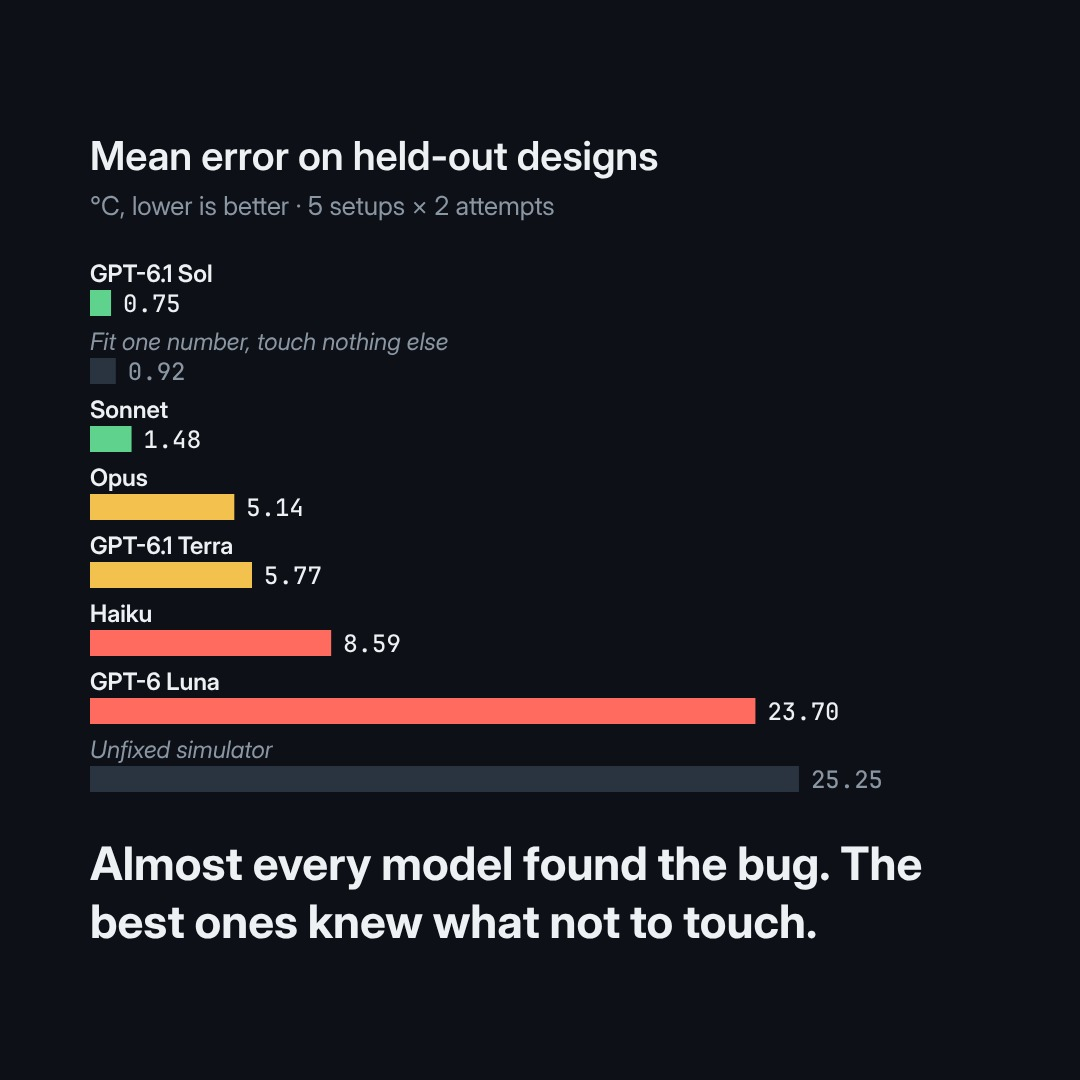
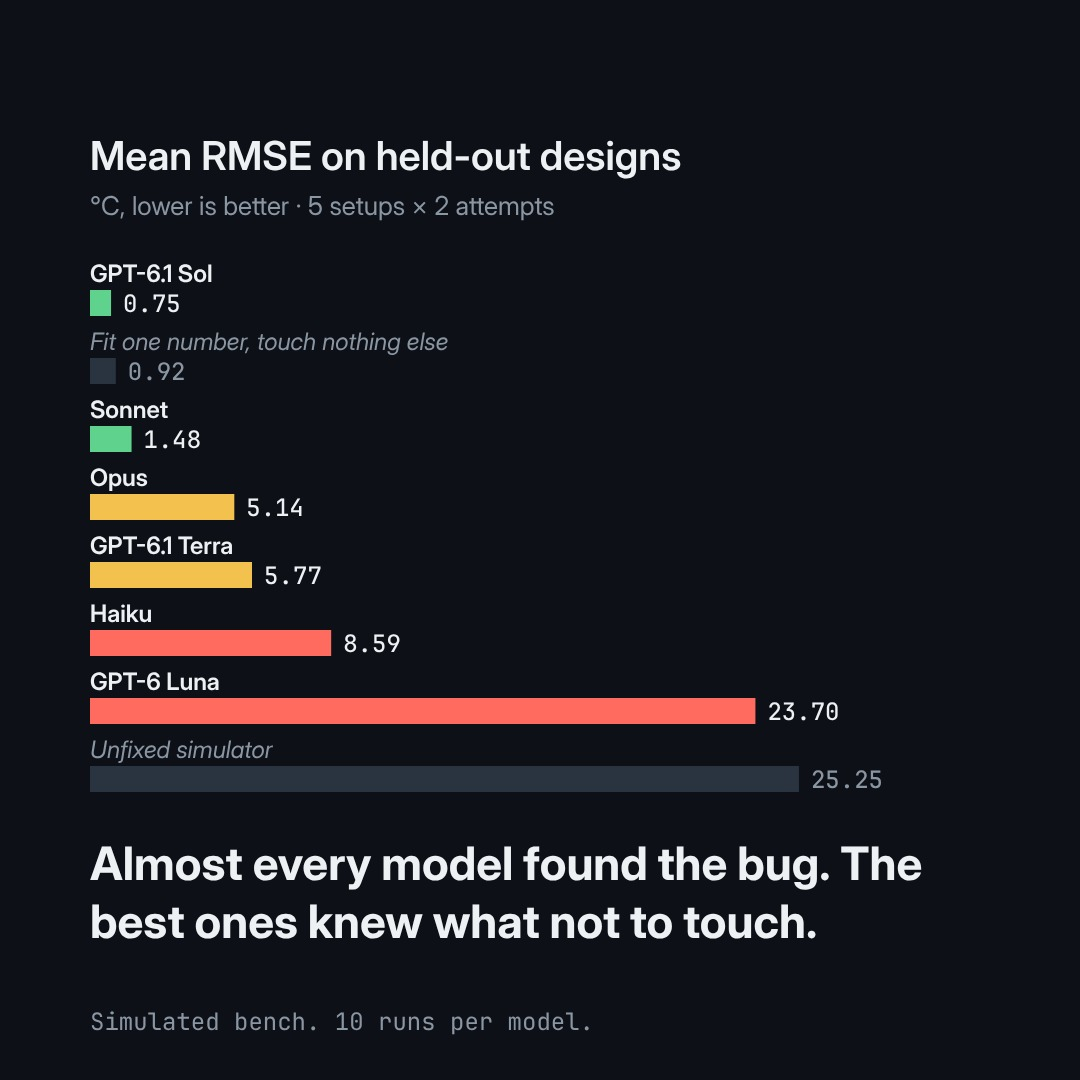
State that measurements are simulated and the by-design caveat
Measurements come from the reference model plus noise, and the reference
shares the simulator's correlations, so leaving non-leak physics alone was
correct by construction. Add model versions and harness note to the site.

Claude-Session: https://claude.ai/code/session_01GKJESjBRS8AiD19GGSstPH

diff --git a/docs/index.html b/docs/index.html
@@ -52,7 +52,7 @@ details summary:focus-visible{outline:2px solid var(--dot);outline-offset:2px}
   <header>
     <div class="eyebrow">Heat sink simulator-fix eval · round 2 · 60 runs</div>
     <h1>The best models knew what not to touch</h1>
-    <p class="lede">Each model got a heat sink simulator with one missing piece of physics (air leaking around the fins through the gap above them) and 12 bench measurements. Its job: fix the simulator so it predicts 30 held-out designs, including fin counts and fan speeds it never saw. Same 5 setups and 2 attempts for every model. The leak strength was different in each setup, so a textbook default doesn't work.</p>
+    <p class="lede">Each model got a heat sink simulator with one missing piece of physics (air leaking around the fins through the gap above them) and 12 simulated bench measurements (generated from the reference model plus noise; there is no physical rig). Its job: fix the simulator so it predicts 30 held-out designs, including fin counts and fan speeds it never saw. Same 5 setups and 2 attempts for every model. The leak strength was different in each setup, so a textbook default value fails on 4 of the 5.</p>
   </header>
 
   <section>
@@ -75,7 +75,8 @@ details summary:focus-visible{outline:2px solid var(--dot);outline-offset:2px}
     </details>
   </section>
   <p class="note"><a href="playground/" style="color:var(--dot);font-weight:600">Try the physics yourself in the Heat Sink Playground</a>: drag the fin count and watch the airflow choke, or play "Beat the AI" against the same models.</p>
-  <p class="note">The reference is an independent closed-form model (Teertstra channel Nusselt number, Muzychka–Yovanovich friction, a fan curve and a parallel bypass path), so these are textbook correlations, not CFD. Hidden leak coefficients were 0.6, 2.5, 1.0, 3.5 and 1.6. No run read the hidden answers.</p>
+  <p class="note">The reference is written independently but uses the same textbook correlations as the simulator (Teertstra channel Nusselt number, Muzychka–Yovanovich friction, a fan curve), plus a parallel bypass path for the leak. So everything except the leak was correct by design, and the models weren't told that; on real hardware, refitting a fan curve can be sensible. Not CFD. Hidden leak coefficients were 0.6, 2.5, 1.0, 3.5 and 1.6. No run read the hidden answers.</p>
+  <p class="note">Models: Claude Sonnet 5.5, Opus 5.5 and Haiku 5.5 via Claude Code at medium effort; GPT-6.1 Sol, GPT-6.1 Terra and GPT-6 Luna via Codex (effort not recorded). This compares model plus harness.</p>
 </div>
 <div class="tip" id="tip" hidden></div>
 

diff --git a/README.md b/README.md
@@ -2,7 +2,7 @@
 
 Can a frontier model fix a broken physics simulator from a handful of measurements, and only the part that's broken?
 
-Each model gets a plate-fin heat sink simulator with one missing mechanism (air leaking over the fins through the gap above them), a README, and 12 bench measurements of chip temperature and fan airflow. It has to write `predict.py`, which is scored on 30 held-out designs per setup, including fin counts and fan speeds outside the training data.
+Each model gets a plate-fin heat sink simulator with one missing mechanism (air leaking over the fins through the gap above them), a README, and 12 simulated bench measurements of chip temperature and fan airflow. There is no physical rig: the measurements come from the reference model (`eval/truth2.py`) plus noise. It has to write `predict.py`, which is scored on 30 held-out designs per setup, including fin counts and fan speeds outside the training data.
 
 **Live:** [results](https://shayansanjideh.github.io/heatsink-simfix/) · [Heat Sink Playground](https://shayansanjideh.github.io/heatsink-simfix/playground/)
 
@@ -25,7 +25,7 @@ Models: Claude Sonnet 5.5, Opus 5.5 and Haiku 5.5 through Claude Code (`claude -
 | *Baseline: curve fit on the gap* | 11.49 | 13.91 |
 | *Baseline: unfixed simulator* | 25.25 | 19.52 |
 
-Almost every model found the leak. A code check finds a real bypass path in 10 of 10 runs for every model except Luna, which has one in 4 of 10. What separated them was leaving the rest alone. We compared each run's predictions with the true physics, changing only the leak value. Sol and Sonnet matched it to within 0.25 °C in 19 of 20 runs. Haiku matched in 5 of 10, Opus and Luna in 2 of 10 each, and Terra in 0 of 10. The other runs changed parts that weren't broken, such as loss formulas, the fan curve in 3 Opus runs, or stacked correction factors. Some of those edits still matched the 12 training points; Opus's and Terra's mostly did, while Haiku's and Luna's worst runs already missed their own training data. Errors grow on dense fins (N > 30) for every model, including correct ones, because a small leak error gets amplified there.
+Almost every model found the leak. A code check finds a real bypass path in 10 of 10 runs for every model except Luna, which has one in 4 of 10. What separated them was leaving the rest alone. We compared each run's predictions with the true physics, changing only the leak value. Sol and Sonnet matched it to within 0.25 °C in 19 of 20 runs (also 19 of 20 at a looser 1 °C, against 8 of 20 for Opus and Terra). Haiku matched in 5 of 10, Opus and Luna in 2 of 10 each, and Terra in 0 of 10. The other runs changed parts that weren't broken, such as loss formulas, the fan curve in 3 Opus runs, or stacked correction factors. Some of those edits still matched the 12 training points; Opus's and Terra's mostly did, while Haiku's and Luna's worst runs already missed their own training data. Errors grow on dense fins (N > 30) for every model, including correct ones, because a small leak error gets amplified there.
 
 Sol's worst run scored 1.7 °C and Sonnet's 3.0. Every other model had at least 3 runs above 5 °C.
 
@@ -33,9 +33,10 @@ Full table, including errors by fan speed and fin count: [`results/report2.txt`]
 
 ## Caveats
 
+- **Leaving the rest alone was right by design:** the reference is written independently but uses the same correlations as the simulator, plus the leak. Everything except the leak was correct by construction, and the models weren't told that. On real hardware, refitting a fan curve to measured airflow can be sensible engineering, so this tests one narrow skill, not engineering judgment in general.
 - **The reference is textbook correlations, not CFD:** Teertstra channel Nusselt number, Muzychka–Yovanovich friction, a linear fan curve, fin efficiency and Song–Lee–Au spreading resistance, plus a parallel bypass path at equal pressure drop.
 - **Small sample:** 10 runs per model. Sol and Sonnet lead on means and on worst-case runs, but medians don't clearly separate them from the rest. Opus, Terra and Haiku can't be separated.
-- **Crashes:** one Terra run (s4_a1) and one Luna run (s3_a0) crashed on 13 and 12 of their 30 designs, and each crash is scored as a 50 °C miss. Without crashed points, Terra's mean would be 2.65 instead of 5.77, so that one run drives most of its score.
+- **Crashes:** one Terra run (s4_a1) and one Luna run (s3_a0) crashed on 13 and 12 of their 30 designs, and each crash is scored as a 50 °C miss. Without crashed points, Terra's mean would be 2.65 instead of 5.77, so that one run drives most of its score. Excluding crashed points also moves Luna from 2 to 3 of 10 runs that match the true physics apart from the leak value; Terra stays at 0.
 - **Round leak values:** the hidden leak coefficients are round numbers (0.6, 2.5, 1.0, 3.5, 1.6), and one setup uses the textbook default of 1.0. All six perfect 0.00 scores come from this: five are on the K = 1.0 setup, where the default is exactly right, and one is a coarse search that landed on 3.5. A round 3 should draw them from a continuous range.
 - **Answers are public:** the held-out answers are in `eval/setups/*/hidden/`. Any new model run on these exact setups could have seen them. To run fresh models, change the seed in `make_v2.py` and regenerate.
 - **No cheating found:** every transcript was scanned, and no run read the hidden files.
